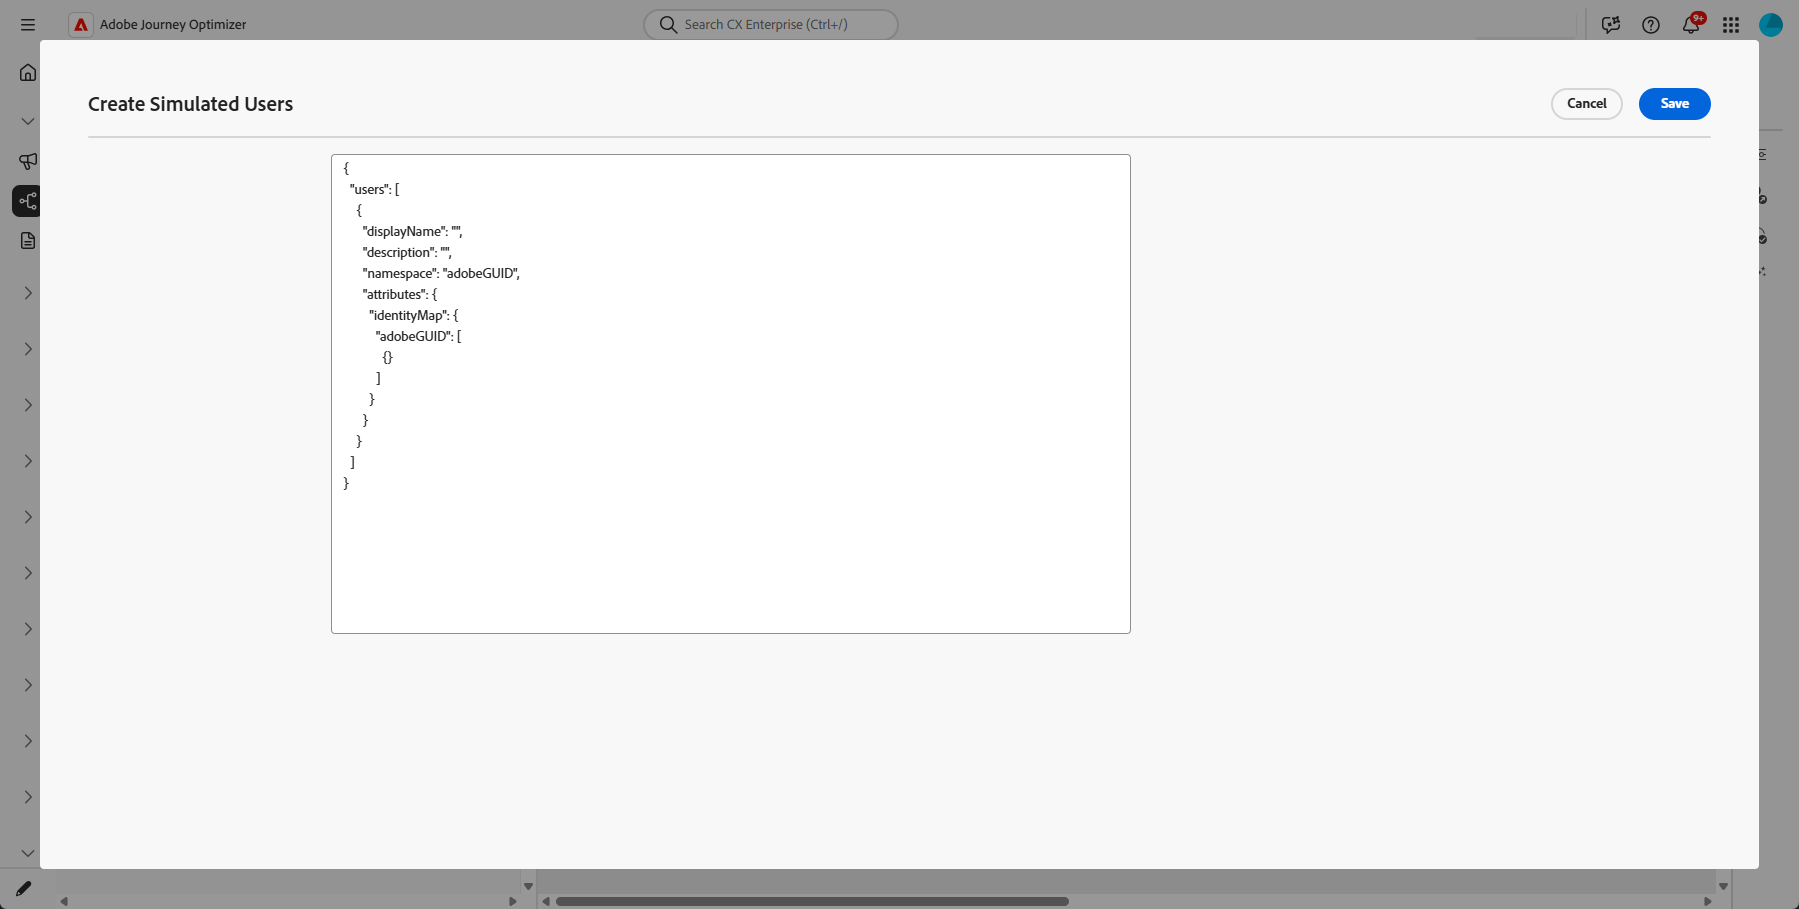
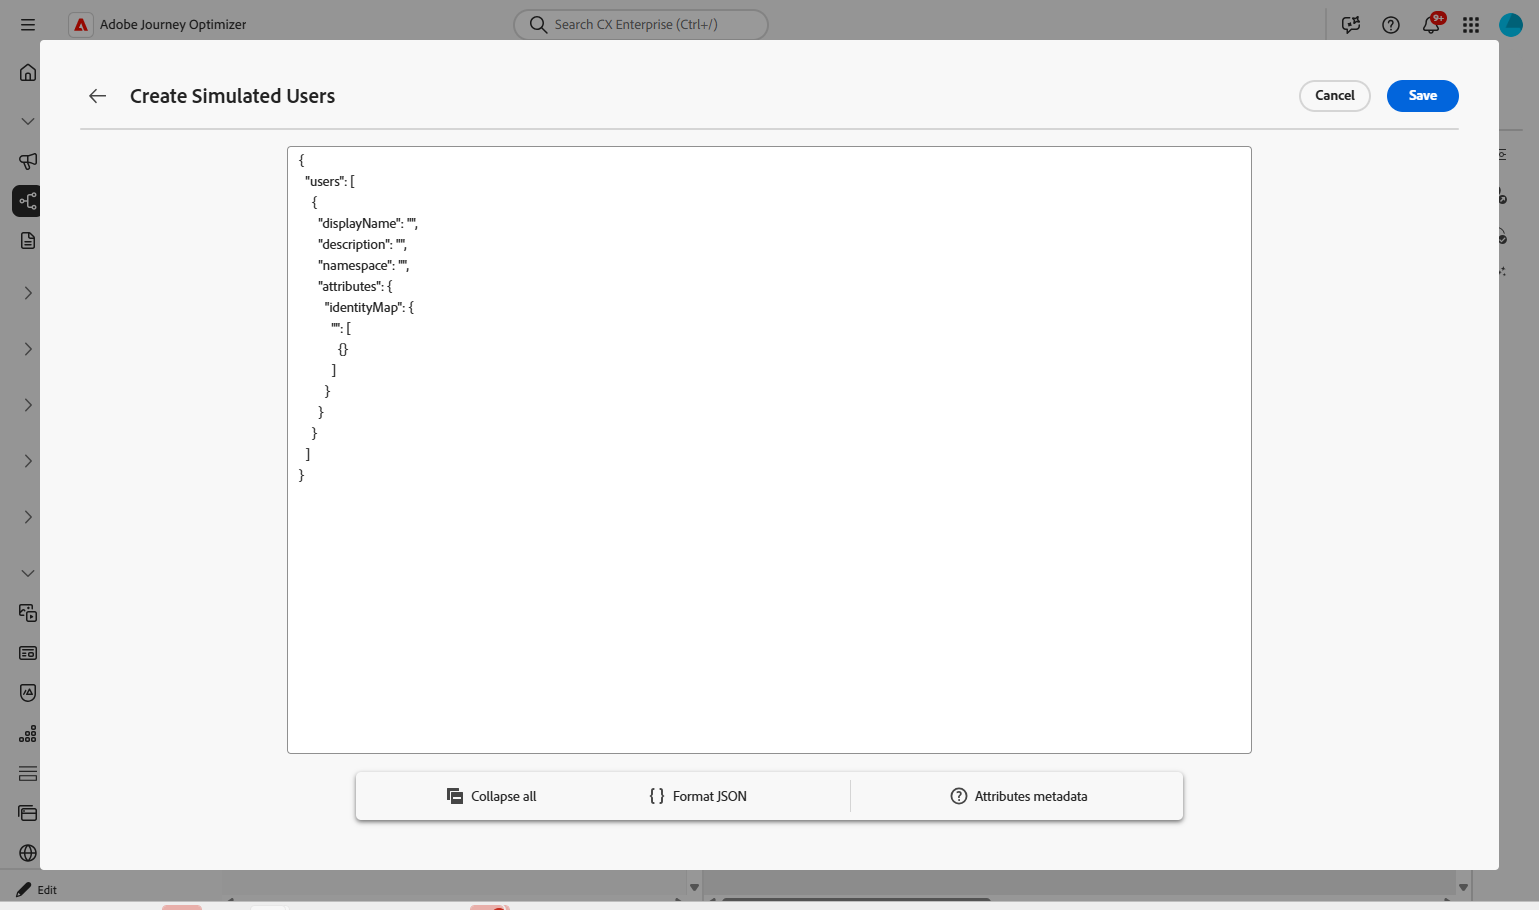
feedbacks

diff --git a/help/using/building-journeys/simulate-journey-gs.md b/help/using/building-journeys/simulate-journey-gs.md
@@ -19,7 +19,7 @@ You can set the journey to **[!UICONTROL Simulation]** in addition to **Draft**,
    
 Adobe Journey Optimizer offers two ways to test and validate your journey:
 
-* **[Simulation](#test-users)**: Use the **[!UICONTROL Simulation]** journey feature and simulated users for quick runs without pre-created profiles in Adobe Experience Platform.
+* **[Simulation](#test-users)**: Use the **[!UICONTROL Simulation]** journey feature and simulated users without pre-created profiles in Adobe Experience Platform, supporting both AI-powered and manually created users.
 
 * **[Test mode](testing-the-journey.md)**: Use persistent profiles flagged as test profiles in Adobe Experience Platform, reusable across sessions. Choose this approach when you need consistent, predefined data. [Learn how to create test profiles](../audience/creating-test-profiles.md).
 
@@ -85,8 +85,7 @@ If a journey contains any of the following nodes, it cannot be started in **[!UI
 | Supplemental ID (multiple re-entrance) | Concurrent re-entrance (several active instances for the same simulated user) prevents **[!UICONTROL Simulation]** from starting. |
 | Content Decision node | This activity must be removed or changed before you can simulate the journey. |
 | Dataset Lookup | Customer dataset lookups by key are not supported; journeys that include this activity cannot be run in **[!UICONTROL Simulation]**. |
-| Path Experimentation (Optimize — Experiment variant) | Not supported in **[!UICONTROL Simulation]**. You can still use **[!UICONTROL Optimize]** for flows that used to live under **[!UICONTROL Condition]** (for example, data source conditions). |
-| Path Targeting (Optimize, Targeting Rule variant) | Not supported in **[!UICONTROL Simulation]**. |
+| **[!UICONTROL Optimize]** activity | The following **[!UICONTROL Optimize]** methods are not supported in **[!UICONTROL Simulation]**: **[!UICONTROL Experiment]**, **[!UICONTROL Targeting rule]**, **[!UICONTROL Percentage split]**, **[!UICONTROL Time condition]**, **[!UICONTROL Condition]**, **[!UICONTROL Date condition]**, **[!UICONTROL Profile cap]**, and **[!UICONTROL External Data Source]**. Remove or change the node before you simulate. |
 | External audience attribute enrichment | Journeys that use personalized attributes from external audience sources will not start in **[!UICONTROL Simulation]** when this validation is active. |
 
 +++

diff --git a/help/using/building-journeys/simulate-journey-2.md b/help/using/building-journeys/simulate-journey-2.md
@@ -85,7 +85,7 @@ Simulated users are temporary profile-like entities you define in **[!UICONTROL 
 
     +++ Create from form
 
-    1. Enter a **[!UICONTROL Display name]** and **[!UICONTROL Description]** to identify this simulated user. 
+    1. Enter a **[!UICONTROL Display name]**, **[!UICONTROL Identity namespace]** and **[!UICONTROL Description]** to identify this simulated user. 
             
         ![Simulated user selection panel](assets/simulate-form.png)
 
@@ -93,9 +93,13 @@ Simulated users are temporary profile-like entities you define in **[!UICONTROL 
 
     1. Click **[!UICONTROL Add audience membership]** to simulate segment memberships.
 
-    1. Click **[!UICONTROL Add profile]** to create multiple simulated users in a single session.
+    1. In the **[!UICONTROL Create Simulated Users]** window, click **[!UICONTROL Add simulated user]** to define several simulated users in one session.
 
-    1. From the menu, use **[!UICONTROL Duplicate]** to copy a user, **[!UICONTROL Apply to all]** to copy one user's attributes to every other user in the session, or **[!UICONTROL Delete]** to remove a user.
+        You can change how users are shown in the list, collapse every card in stacked view, or open a user's attribute metadata.
+    
+        ![Simulated user selection panel](assets/simulate-form-3.png)
+
+    1. From your Simulated user menu, use **[!UICONTROL Duplicate]** to copy a user, **[!UICONTROL Apply all attributes to other users]** to copy one user's attributes to every other user in the session, or **[!UICONTROL Delete]** to remove a user.
 
         ![Simulated user selection panel](assets/simulate-form-2.png)
 

diff --git a/help/using/building-journeys/simulate-journey.md b/help/using/building-journeys/simulate-journey.md
@@ -176,8 +176,7 @@ If a journey contains any of the following nodes, it cannot be started in **[!UI
 | Supplemental ID (multiple re-entrance) | Concurrent re-entrance (several active instances for the same simulated user) prevents **[!UICONTROL Simulation]** from starting. |
 | Content Decision node | This activity must be removed or changed before you can simulate the journey. |
 | Dataset Lookup | Customer dataset lookups by key are not supported; journeys that include this activity cannot be run in **[!UICONTROL Simulation]**. |
-| Path Experimentation (Optimize — Experiment variant) | Not supported in **[!UICONTROL Simulation]**. You can still use **[!UICONTROL Optimize]** for flows that used to live under **[!UICONTROL Condition]** (for example, data source conditions). |
-| Path Targeting (Optimize, Targeting Rule variant) | Not supported in **[!UICONTROL Simulation]**. |
+| **[!UICONTROL Optimize]** activity | The following **[!UICONTROL Optimize]** methods are not supported in **[!UICONTROL Simulation]**: **[!UICONTROL Experiment]**, **[!UICONTROL Targeting rule]**, **[!UICONTROL Percentage split]**, **[!UICONTROL Time condition]**, **[!UICONTROL Condition]**, **[!UICONTROL Date condition]**, **[!UICONTROL Profile cap]**, and **[!UICONTROL External Data Source]**. Remove or change the node before you simulate. |
 | External audience attribute enrichment | Journeys that use personalized attributes from external audience sources will not start in **[!UICONTROL Simulation]** when this validation is active. |
 
 +++
